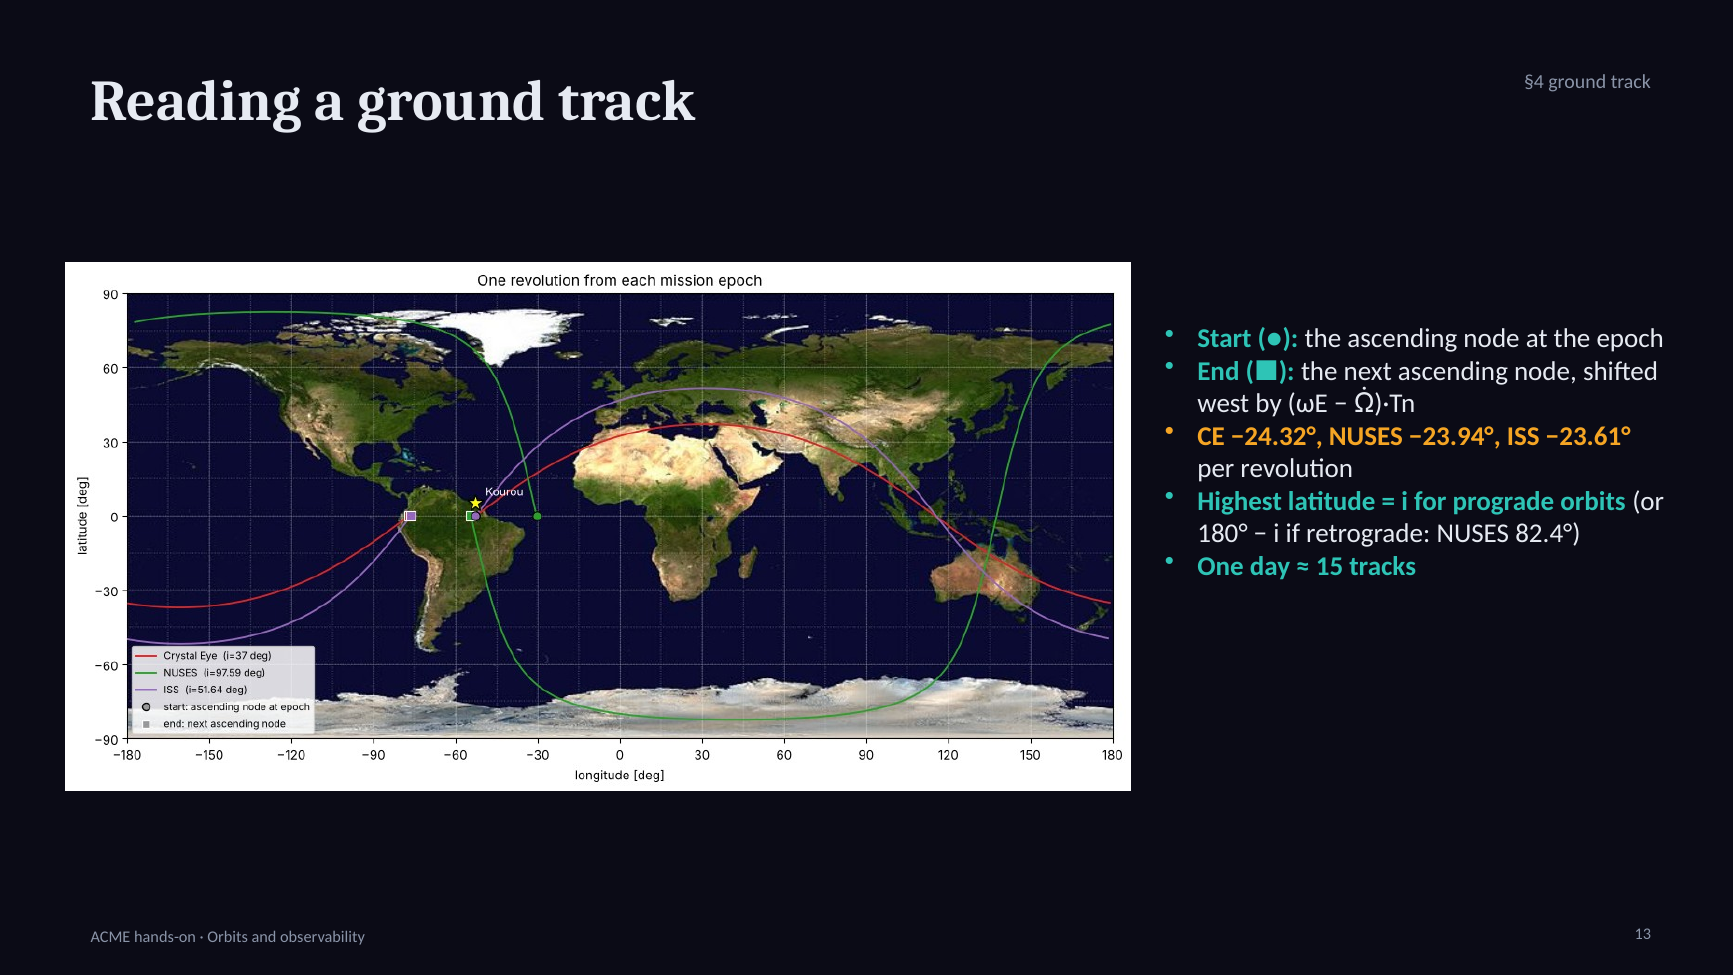
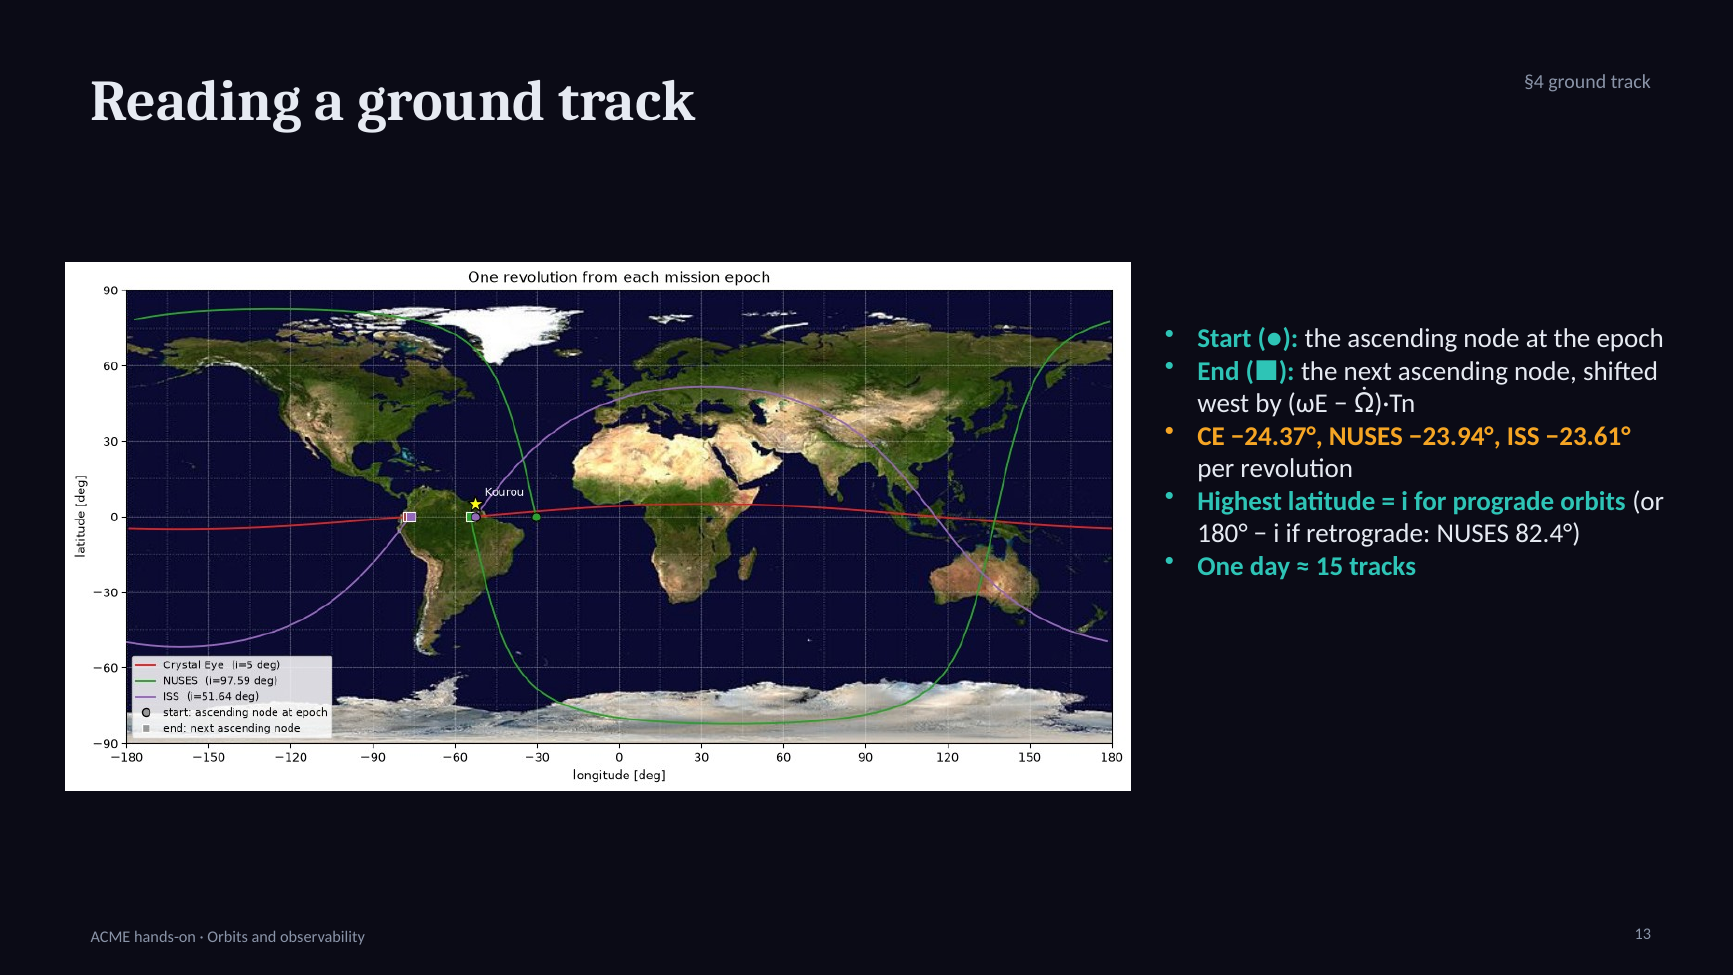
Crystal Eye at i = 5°: new slide images and updated numbers in the theory pages
Claude-Session: https://claude.ai/code/session_01HMudWrAh1o7BLbPRyk34mw

Changed region(s): [[0.0311, 0.2769, 0.654, 0.8], [0.0623, 0.4308, 0.1246, 0.4615]]

diff --git a/theory/07_j2_sky.md b/theory/07_j2_sky.md
@@ -18,9 +18,9 @@ with long occultations, weeks with short ones or none.
 
 | parameter | what it tells | what sets it | value |
 |---|---|---|---|
-| $\dot\Omega$ | how fast the plane turns | altitude and inclination | Crystal Eye one turn in 60.4 days, ISS 72.8 days, NUSES one year |
+| $\dot\Omega$ | how fast the plane turns | altitude and inclination | Crystal Eye one turn in 48.4 days, ISS 72.8 days, NUSES one year |
 | $\beta_\mathrm{src}(t)$ | how far the source is from the plane, day by day | the turning plane and the source | changes continuously |
-| range of $\beta_\mathrm{src}$ | how far from the plane the source can get | the inclination and the declination of the source | Crab: Crystal Eye −15°…+59°, ISS −30°…+74°, NUSES −75°…+60° |
+| range of $\beta_\mathrm{src}$ | how far from the plane the source can get | the inclination and the declination of the source | Crab: Crystal Eye +17°…+27°, ISS −30°…+74°, NUSES −75°…+60° |
 
 **What J2 does not change**
 
@@ -29,8 +29,9 @@ with long occultations, weeks with short ones or none.
   same fraction of the sky (69.5 % at 550 km with FoV = 360°).
 
 **The result:** J2 moves where the zenith points, not how much sky is seen. The exposure
-is shared more evenly among the directions: nothing is observed 100 % of the time any
-more, and a source like the Crab, which was in the worst place, is hidden less.
+is shared more evenly among the directions, and the more inclined the orbit, the stronger
+the effect: for the ISS and NUSES nothing is observed 100 % of the time any more and the
+Crab is hidden less; Crystal Eye, almost equatorial, barely changes.
 
 The same effect is behind the eclipses: J2 turns the plane with respect to the Sun, and
 this is why $\beta$ of Crystal Eye and of the ISS has a cycle of a few weeks.
@@ -46,16 +47,16 @@ this is why $\beta$ of Crystal Eye and of the ISS has a cycle of a few weeks.
 
 **Why the zenith spreads over the sky.** In one revolution the zenith draws one great
 circle: the orbital plane seen on the sky. Without J2 the plane is fixed, so every
-revolution draws the same circle. With J2 the node moves by 5.96° per day, so each day
-the circle is turned a little around the celestial poles. In $1096/60.4 = 18$ full turns
-of the node, the circles fill a band of the sky.
+revolution draws the same circle. With J2 the node moves by 7.43° per day, so each day
+the circle is turned a little around the celestial poles. In $1096/48.4 = 22$ full turns
+of the node, the circles fill the band $|\mathrm{Dec}| \le i$.
 
 **Why $|\mathrm{Dec}| \le i$.** The $z$ component of the zenith is $\sin u\,\sin i$
 (third row of the propagator). Its largest value is $\sin i$, at $u = 90°$, so the
 declination of the zenith never exceeds $i$. J2 turns the plane around the polar axis
-but does not change $i$, so the limit stays: the two empty regions are the directions
-more than 37° from the celestial equator, which are never straight above the detector.
-The band $|\mathrm{Dec}| \le 37°$ is $\sin 37° = 60\,\%$ of the sky.
+but does not change $i$, so the limit stays: the directions more than 5° from the
+celestial equator are never straight above the detector. The band $|\mathrm{Dec}| \le 5°$
+is only $\sin 5° = 8.7\,\%$ of the sky: Crystal Eye always looks at the same narrow strip.
 
 
 ## What J2 changes in the exposure
@@ -70,20 +71,25 @@ The band $|\mathrm{Dec}| \le 37°$ is $\sin 37° = 60\,\%$ of the sky.
 the same distance from the plane, $\beta_\mathrm{src}$, for the whole mission: it is
 either always near the plane (low exposure) or always far from it (high exposure). With
 J2 the plane turns, so $\beta_\mathrm{src}$ of each direction changes during the mission:
-the same direction spends some weeks near the plane and some weeks far from it. 
+the same direction spends some weeks near the plane and some weeks far from it. This
+works only if the plane really changes its orientation on the sky: at $i = 5°$ the plane
+of Crystal Eye stays close to the equator however the node turns, so its exposure map
+barely changes (62.8–100 % with and without J2).
 
-**Why the Crab is hidden less with J2.** In the Keplerian case the Crab has
-$\beta_\mathrm{src} = -1.45°$ for the whole mission, almost in the plane: the worst case,
-hidden 37 % of every revolution. With J2 its $\beta_\mathrm{src}$ changes as the node
-turns; when $|\beta_\mathrm{src}|$ is large the occultations are shorter, like eclipses at
-large $|\beta|$. In exercise 9.0, after 30 days of Crystal Eye the node has turned by
-−178.7° and the Crab has moved from $\beta_\mathrm{src} = -1.5°$ to $+37.9°$.
+**How J2 changes the Crab.** In the Keplerian case the Crab keeps the same
+$\beta_\mathrm{src}$ for the whole mission: +19.05° for Crystal Eye, hidden 36 % of every
+revolution. With J2 its $\beta_\mathrm{src}$ changes as the node turns; when
+$|\beta_\mathrm{src}|$ is large the occultations are shorter, like eclipses at large
+$|\beta|$. In exercise 9.0, after 30 days of Crystal Eye the node has turned by −222.9° and
+the Crab has moved from $\beta_\mathrm{src} = +19.0°$ to $+26.9°$: occultations of 33.9
+instead of 34.9 min.
 
 **Why NUSES changes the most (37.0 → 28.2 %).** The range that $\beta_\mathrm{src}$ can
 cover while the plane turns depends on the inclination. The orbit normal stays at an
 angle $i$ from the North Pole, and the Crab is at Dec $+22°$. For Crystal Eye
-($i = 37°$) the normal stays near the pole, and $\beta_\mathrm{src}$ of the Crab only
-ranges from −15° to +59°. For the ISS it ranges from −30° to +74°. NUSES is almost polar:
+($i = 5°$) the normal stays within 5° of the pole, and $\beta_\mathrm{src}$ of the Crab only
+ranges from +17° to +27°: over the mission it is hidden 36.1 % instead of 36.4 %,
+practically the same. For the ISS it ranges from −30° to +74°. NUSES is almost polar:
 its normal moves close to the celestial equator, and $\beta_\mathrm{src}$ ranges from −75°
 to +60°. The Crab spends more time far from the plane of NUSES, so it is hidden less.
 

diff --git a/theory/04_eclipses.md b/theory/04_eclipses.md
@@ -40,7 +40,7 @@ the node is with respect to the Sun. The node moves at $\dot\Omega$, the Sun mov
 the ecliptic at $0.9856°$ per day: the angle between them changes at the difference of
 the two rates, and $\beta$ repeats when this angle has changed by 360°.
 
-- Crystal Eye: $360 / |-5.957 - 0.986| = 360 / 6.943 = 51.9$ days.
+- Crystal Eye: $360 / |-7.431 - 0.986| = 360 / 8.417 = 42.8$ days.
 - ISS: $360 / |-4.947 - 0.986| = 360 / 5.933 = 60.7$ days.
 - NUSES: the two rates are equal, the denominator is zero and there is no cycle. The change follows the time of seasons,
 - because the Sun moves north and south of the equator during the year.
@@ -76,7 +76,7 @@ it must be smaller than $R$.
 
 | parameter | what it tells | what sets it | how it changes |
 |---|---|---|---|
-| $\beta$ | how high the Sun is above the orbital plane | the orbital plane ($i$, $\Omega$) and the position of the Sun | every day: the node drifts (J2) and the Sun moves along the ecliptic. Cycle of 52 days for Crystal Eye, 61 days for the ISS; for NUSES (sun-synchronous) only with the seasons |
+| $\beta$ | how high the Sun is above the orbital plane | the orbital plane ($i$, $\Omega$) and the position of the Sun | every day: the node drifts (J2) and the Sun moves along the ecliptic. Cycle of 43 days for Crystal Eye, 61 days for the ISS; for NUSES (sun-synchronous) only with the seasons |
 | $\beta^* = \rho$ | the threshold above which there is no eclipse | the altitude | fixed for a circular orbit |
 | $T_n$ | the length of one orbit, which sets the scale of the eclipse | the altitude | fixed |
 :::

diff --git a/theory/06_exposure.md b/theory/06_exposure.md
@@ -108,7 +108,7 @@ mission, and for each pixel the instants that satisfy the condition are counted.
 *One source: entry and exit behind the Earth*
 ```
 
-**What the figure shows.** The sky seen from Crystal Eye one minute before the Crab goes
+**What the figure shows.** The sky seen from Crystal Eye about 20 seconds before the Crab goes
 behind the Earth: the grey disc is the Earth, centred on the nadir, with angular radius
 $\rho$. The Crab is on its edge, at $\theta \approx 113°$.
 
@@ -124,6 +124,6 @@ $$
 \mathrm{JD}(t) = \mathrm{JD}(t_0) + \frac{t}{86400}
 $$
 
-For the first entry, JD 2462502.528426: the decimal part after .5 is the time since
-midnight, $0.028426 \times 86400 = 2456$ s $= 40$ min 56 s, that is 00:40:56 UTC.
+For the first entry, JD 2462502.527963: the decimal part after .5 is the time since
+midnight, $0.027963 \times 86400 = 2416$ s $= 40$ min 16 s, that is 00:40:16 UTC.
 

diff --git a/theory/03_j2_propagation.md b/theory/03_j2_propagation.md
@@ -90,8 +90,8 @@ $$
 orbit by $\omega_E T_n$, about 24°, and the node itself drifts by $\dot\Omega T_n$ because
 of J2. Seen from the ground, the next node is therefore further west by
 $(\omega_E - \dot\Omega)\,T_n$. For Crystal Eye:
-$(360.9856 + 5.957)°/\text{day} \times 0.066282\ \text{days} = 24.32°$, of which only
-0.40° come from J2.
+$(360.9856 + 7.431)°/\text{day} \times 0.066154\ \text{days} = 24.37°$, of which only
+0.49° come from J2.
 
 **Why NUSES runs the opposite way.** The inclination is measured from the equator,
 eastward. With $i < 90°$ (Crystal Eye, ISS) the orbit is **prograde**: at the ascending

diff --git a/theory/01_orbits.md b/theory/01_orbits.md
@@ -79,8 +79,8 @@ satellite.
 *Our three missions*
 ```
 
-They cover three typical inclinations of LEO missions: a low
-inclination (Crystal Eye, 37°), a medium one (ISS, 51.6°) and a sun-synchronous one
+They cover three typical inclinations of LEO missions: a nearly
+equatorial one (Crystal Eye, 5°), a medium one (ISS, 51.6°) and a sun-synchronous one
 (NUSES, 97.6°). The same notebook runs on all three, so every result can be compared.
 
 **Why a convention for the RAAN.** $i$ and the altitude are fixed by the launch site and
